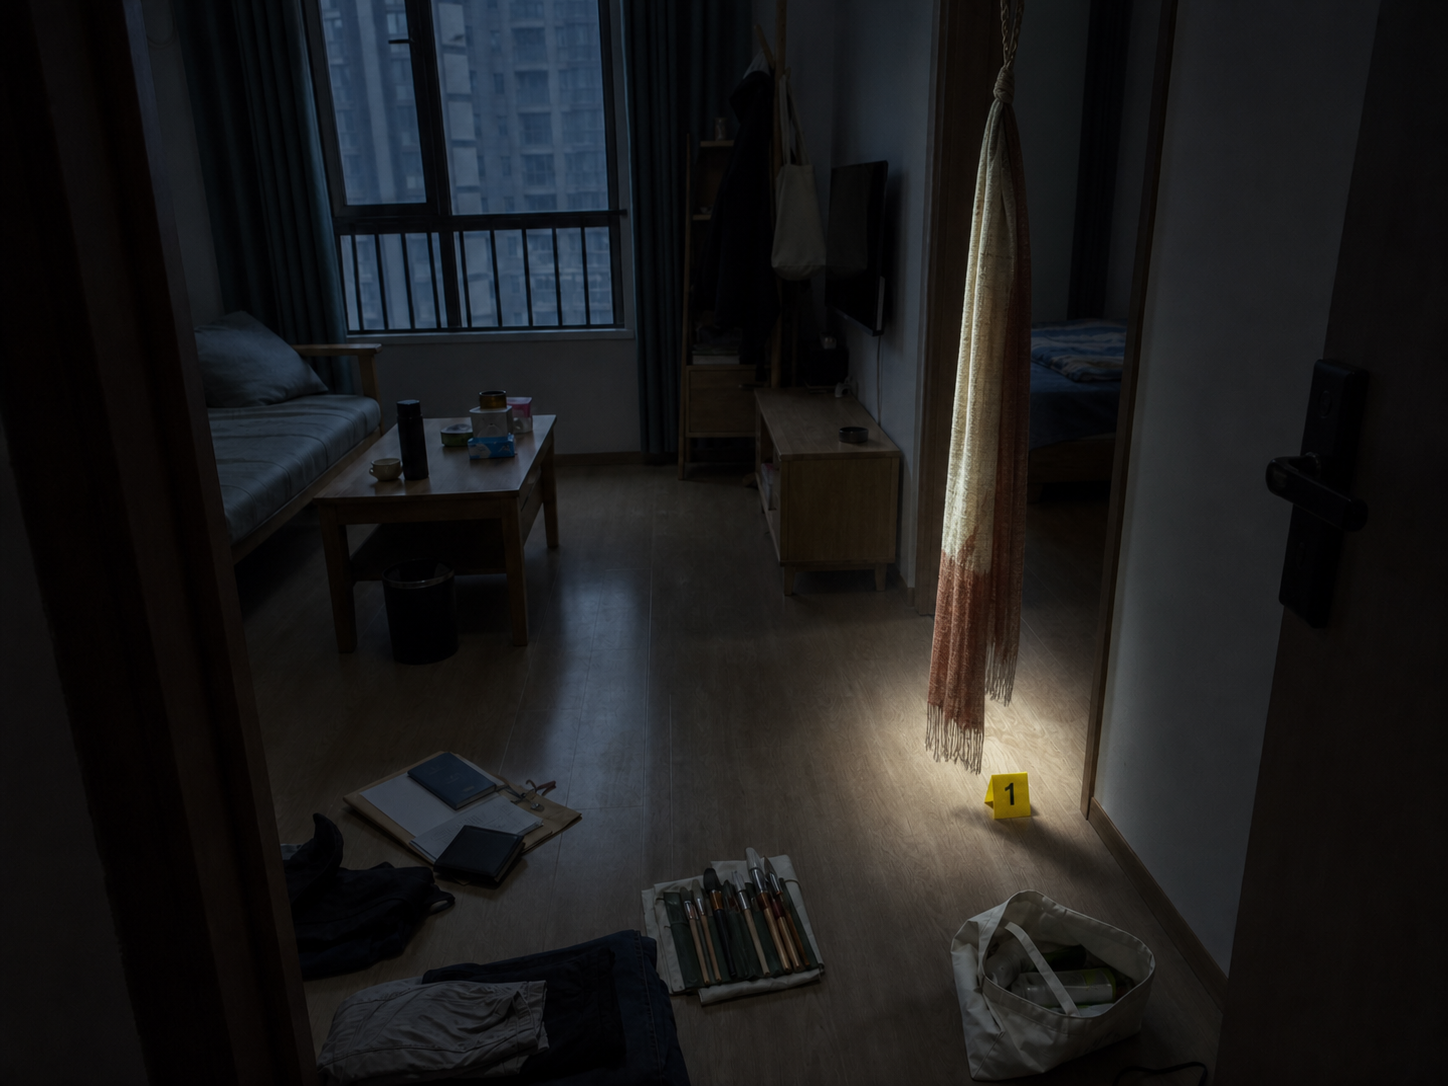
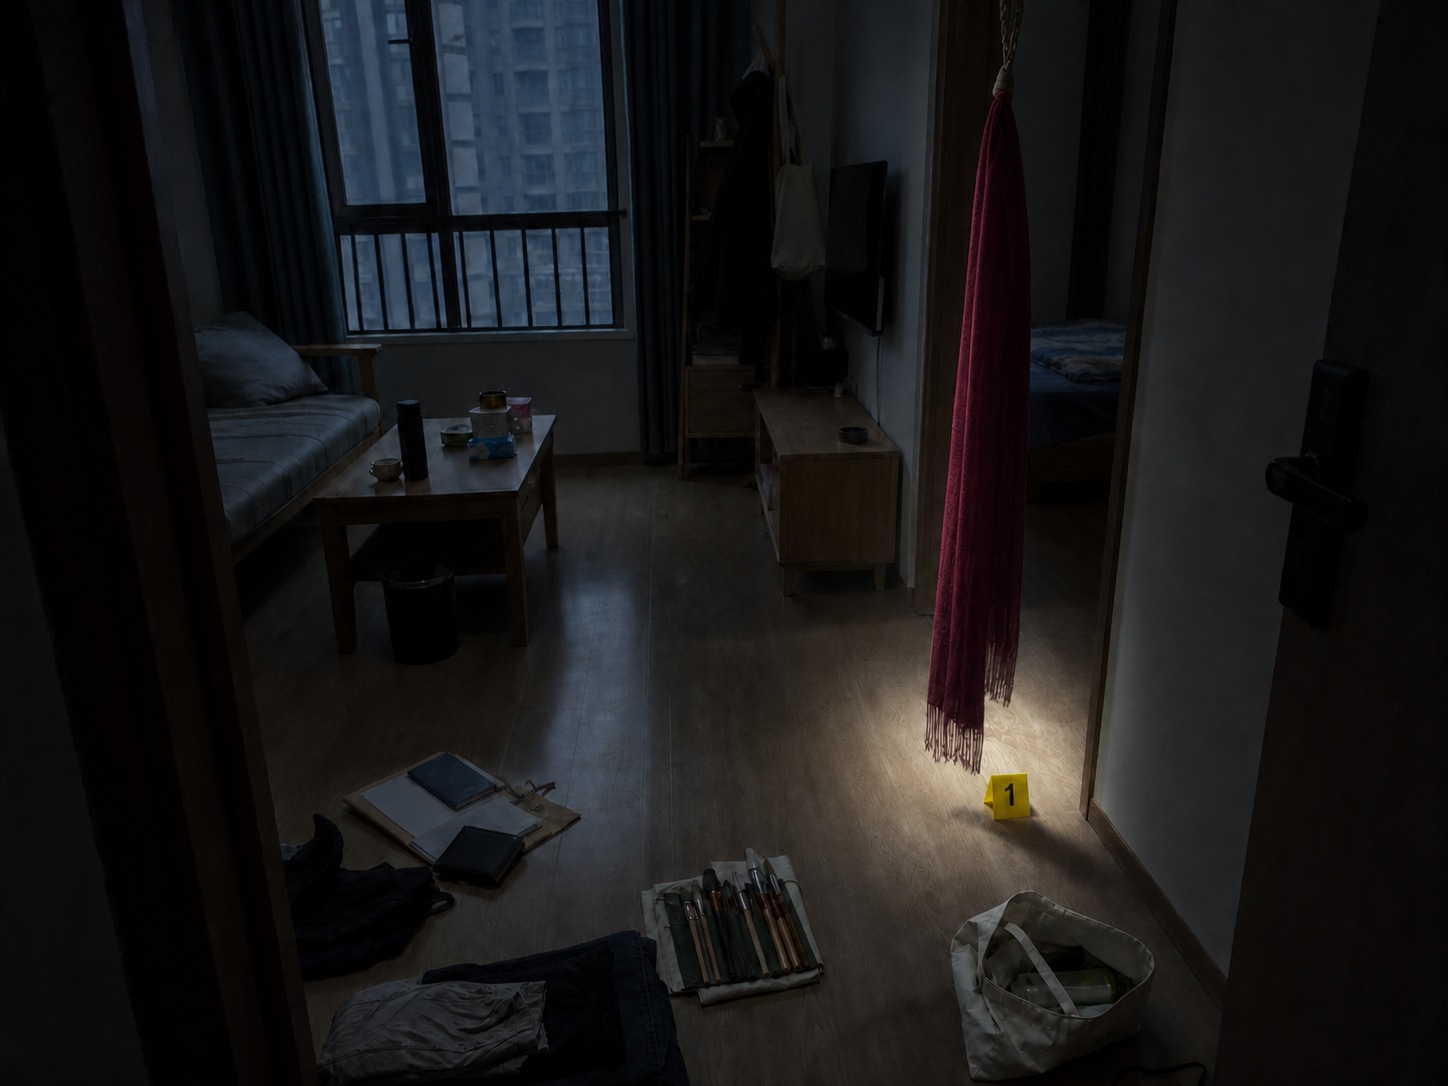
fix: align draft metadata and scarf evidence

Changed region(s): [[0.6215, 0.0912, 0.7148, 0.7293]]

diff --git a/app/globals.css b/app/globals.css
@@ -429,6 +429,7 @@ body:has(.opening-sequence) .global-translation-toggle { display:none; }
 .wx-driver-code{display:grid;grid-template-columns:1fr auto;align-items:center;gap:4px 15px;margin:18px 45px;padding:15px 18px;border:1px dashed #987d55;background:#292e30;color:#d7d0bd}.wx-driver-code small,.wx-driver-code span{font-size:8px}.wx-driver-code small{color:#aaa28d;letter-spacing:.12em}.wx-driver-code b{grid-row:1/3;grid-column:2;font:18px monospace;letter-spacing:.08em;color:#e6bd72}.wx-driver-code span{color:#858d8b}.aid-archive-search{display:flex;align-items:end;gap:14px;margin:15px 0 22px;padding:15px 18px;background:#e6eeec;border:1px solid #cbd8d5}.aid-archive-search label{flex:0 0 110px;padding-bottom:10px;color:#385f5a;font-size:9px;font-weight:bold}.aid-archive-search>div{flex:1;display:flex}.aid-archive-search input{flex:1;min-width:0;padding:10px 12px;border:1px solid #9db1ad;background:#fff}.aid-archive-search button{padding:0 22px;border:0;background:#1c6962;color:#fff}.aid-archive-search p{flex-basis:100%;margin:0;color:#9e3935;font-size:9px}.aid-archive-search.error{flex-wrap:wrap;border-color:#d5a29e;background:#fff0ee}.aid-sealed-evidence{padding-bottom:35px}.aid-sealed-evidence>header{padding:20px 23px;background:#262d30;color:#d9dddc;border-left:5px solid #a63e39}.aid-sealed-evidence>header span,.aid-sealed-evidence>header b,.aid-sealed-evidence>header small{display:block}.aid-sealed-evidence>header span{color:#d47d76;font:8px monospace;letter-spacing:.2em}.aid-sealed-evidence>header b{margin-top:7px;font-size:17px}.aid-sealed-evidence>header small{margin-top:5px;color:#9ca5a2;font-size:8px}.aid-evidence-summary{display:grid;grid-template-columns:repeat(4,1fr);gap:8px;margin:15px 0}.aid-evidence-summary span{padding:15px;background:#fff;border-top:3px solid #a74540;color:#697572;font-size:8px;box-shadow:0 3px 10px #1738320d}.aid-evidence-summary b{display:block;margin-bottom:5px;color:#8e3532;font-size:22px}.aid-sealed-evidence>article{margin:11px 0;background:#fff;border:1px solid #d4dcda;box-shadow:0 4px 13px #183c3510}.aid-sealed-evidence>article>header{display:flex;justify-content:space-between;padding:13px 17px;background:#edf2f0;border-bottom:1px solid #d8dfdd}.aid-sealed-evidence>article>header b{color:#263f3b}.aid-sealed-evidence>article>header em{color:#a13c37;font-size:8px;font-style:normal}.aid-sealed-evidence>article dl{display:grid;grid-template-columns:110px 1fr;margin:0}.aid-sealed-evidence>article dt,.aid-sealed-evidence>article dd{margin:0;padding:10px 13px;border-bottom:1px solid #e3e7e5;font-size:9px;line-height:1.7}.aid-sealed-evidence>article dt{background:#f5f7f6;color:#6d7e79}.aid-sealed-evidence>article dd{color:#465955}.aid-chain-conclusion{margin-top:18px;padding:18px 20px;border-left:5px solid #9e3834;background:#fff0ee;color:#703735}.aid-chain-conclusion b{font-size:15px}.aid-chain-conclusion p{margin-bottom:0;font-size:10px;line-height:1.9}@media(max-width:700px){.wx-driver-code{margin:15px}.aid-archive-search{align-items:stretch;flex-direction:column}.aid-archive-search label{flex-basis:auto}.aid-evidence-summary{grid-template-columns:1fr 1fr}.aid-sealed-evidence>article dl{grid-template-columns:1fr}}
 .old-phone-extract{width:310px;margin:18px auto 24px;border:9px solid #242b2c;border-radius:24px;background:#e8e8e2;box-shadow:0 14px 30px #14222935;overflow:hidden}.old-phone-extract>header{display:flex;justify-content:space-between;padding:8px 16px;background:#242b2c;color:#eef2ef;font-size:8px}.old-phone-extract>section{padding:0 14px 18px}.old-phone-app{margin:0 -14px 12px;padding:12px 15px;background:#f6f5ef;border-bottom:1px solid #d6d5ce;font-weight:bold}.old-phone-extract article{margin:10px 0;padding:12px!important;border:1px solid #d2d0c5;border-radius:8px;background:#fffef8;line-height:1.5!important}.old-phone-extract article small{color:#999184;font-size:7px}.old-phone-extract article h3{margin:3px 0 5px}.old-phone-extract article p{margin:0;color:#5d5a52;font-size:10px}.old-phone-extract article b{color:#222;font:12px monospace;user-select:text}
 .wb-feed>article.wb-draft-lock{cursor:default;border-left:3px solid #776b58;background:#f7f5ef}.wb-draft-lock form{display:grid;grid-template-columns:1fr auto;gap:8px;margin:15px 0;padding:14px;border:1px solid #d4cdbf;background:#eeebe3}.wb-draft-lock form label{color:#756e62;font-size:9px}.wb-draft-lock form input{display:block;width:100%;margin-top:6px;padding:9px;border:1px solid #bdb6a9;background:#fff}.wb-draft-lock form button{align-self:end;padding:10px 14px;border:0;background:#625b4f;color:#fff;font-size:9px}.wb-draft-lock form button:disabled{opacity:.35}.wb-draft-lock form small{grid-column:1/3;color:#a34a43;font-size:8px}.gp-wb-dark .wb-feed>article.wb-draft-lock{border-color:#756d5f;background:#2c2e2f}.gp-wb-dark .wb-draft-lock form{border-color:#4c4d49;background:#252728}.gp-wb-dark .wb-draft-lock form label{color:#a9a49a}.gp-wb-dark .wb-draft-lock form input{border-color:#555750;background:#1e2021;color:#d5d4d0}.gp-wb-dark .wb-draft-lock form button{background:#68645b;color:#eee}
+.wb-feed article footer.wb-draft-meta{justify-content:flex-start;gap:18px}
 .wb-profile>img{display:block;margin-left:auto;margin-right:auto}
 .gp-wx-key-missing{display:flex;align-items:center;gap:12px;margin-top:16px;padding:15px;border:1px solid #c9cfcc;background:#f1f3f2}.gp-wx-key-missing>i{width:38px;height:38px;display:grid;place-items:center;border-radius:50%;background:#d9dfdc;font-style:normal}.gp-wx-key-missing span{flex:1}.gp-wx-key-missing strong,.gp-wx-key-missing small{display:block}.gp-wx-key-missing strong{color:#4c5a54;font-size:10px}.gp-wx-key-missing small{margin-top:5px!important;color:#8a948f!important;font-size:8px!important;line-height:1.6}.wx-sensitive-note{margin-top:14px!important;color:#9d625d!important}
 .record-language{display:flex;align-items:center;justify-content:space-between;margin:-6px 0 18px;padding:9px 12px;border:1px solid #cbdadd;background:#f2f7f7;color:#61747b;font-size:9px}.record-language button{padding:7px 13px;border:1px solid #087d83;background:#fff;color:#08646b;font-size:10px;font-weight:bold}.record-language button:hover{background:#087d83;color:#fff}

diff --git a/app/weibo/GupanWeibo.tsx b/app/weibo/GupanWeibo.tsx
@@ -45,7 +45,7 @@ export default function GupanWeibo({embedded=false,viewer="沈望"}:{embedded?:b
     <nav className="wb-profile-nav"><button className="active">她的主页</button><button>她的相册</button><button>赞</button><span>关注 17　粉丝 3　微博 {posts.filter(p=>!p.private).length}</span></nav>
     <div className="wb-layout">
       <aside><section><h3>个人资料</h3><p>所在地：海外</p><p>教育信息：Northbridge University</p><p>简介：画画、植物、旅行</p></section><section><h3>微博归档</h3>{["全部","2022","2021"].map(x=><button key={x} className={year===x?"active":""} onClick={()=>setYear(x)}>{x}年</button>)}</section><section className="wb-clue"><h3>账号状态</h3><p>最后公开更新：2022-10-26</p><p>此后没有发布新微博</p>{privateOpen&&<p>已在本地时间线中显示未发送草稿</p>}</section></aside>
-      <section className="wb-feed"><div className="wb-filter"><b>她的微博</b><div style={{display:"flex",alignItems:"center",gap:"10px"}}><span>{visible.length} 条公开记录{privateOpen?` · ${posts.filter(p=>p.private).length} 条本地草稿`:""}</span><WeiboSortToggle order={sortOrder} onChange={setSortOrder}/></div></div>{visible.map(post=><article key={post.id} className={post.private?"private":""}><img src="/characters/gu-pan.png" alt="顾盼"/><div><header><b>向阳生长</b>{post.private&&<em>未发送草稿</em>}<small>{post.date}　来自 Android客户端　IP属地：{post.place}</small></header><p>{post.text}</p>{post.image&&<WeiboImage kind={post.image as "map"|"snow"} label={post.image==="map"?"一张画满线路的世界地图":"冬夜里的车站"}/>} {post.photo&&<WeiboImage kind="photo" src={post.photo.src} label={post.photo.caption}/>} {post.file&&<WeiboImage kind="lab" label={post.file}/>}<footer><span>☆ 收藏</span><span>↗ 转发 0</span><span>□ 评论 0</span><span>♡ 赞 {post.id%3}</span></footer></div></article>)}{showDraftLock&&<article className="wb-draft-lock"><img src="/characters/gu-pan.png" alt="顾盼"/><div><header><b>向阳生长</b><em>未发送草稿 · 已加密</em><small>2022-10-29 04:18　保存于 Android客户端</small></header><p>这里缓存着一组没有发送的草稿。</p><form onSubmit={event=>{event.preventDefault();unlockDrafts()}}><label>请输入密码（提示：爱情暗号）<input type="password" value={code} onChange={event=>setCode(event.target.value)} placeholder="请输入密码" autoComplete="off"/></label><button disabled={code.trim().toLowerCase()!==draftPassword}>显示这段时间的草稿</button>{code&&code.trim().toLowerCase()!==draftPassword&&<small className="wb-error">密码不正确</small>}</form><footer><span>本地缓存</span><span>不会发布这些内容</span><span>创建于 04:18</span></footer></div></article>}</section>
+      <section className="wb-feed"><div className="wb-filter"><b>她的微博</b><div style={{display:"flex",alignItems:"center",gap:"10px"}}><span>{visible.length} 条公开记录{privateOpen?` · ${posts.filter(p=>p.private).length} 条本地草稿`:""}</span><WeiboSortToggle order={sortOrder} onChange={setSortOrder}/></div></div>{visible.map(post=><article key={post.id} className={post.private?"private":""}><img src="/characters/gu-pan.png" alt="顾盼"/><div><header><b>向阳生长</b>{post.private&&<em>未发送草稿</em>}<small>{post.date}　来自 Android客户端　IP属地：{post.place}</small></header><p>{post.text}</p>{post.image&&<WeiboImage kind={post.image as "map"|"snow"} label={post.image==="map"?"一张画满线路的世界地图":"冬夜里的车站"}/>} {post.photo&&<WeiboImage kind="photo" src={post.photo.src} label={post.photo.caption}/>} {post.file&&<WeiboImage kind="lab" label={post.file}/>} {post.private?<footer className="wb-draft-meta"><span>本地缓存</span><span>未发布</span></footer>:<footer><span>☆ 收藏</span><span>↗ 转发 0</span><span>□ 评论 0</span><span>♡ 赞 {post.id%3}</span></footer>}</div></article>)}{showDraftLock&&<article className="wb-draft-lock"><img src="/characters/gu-pan.png" alt="顾盼"/><div><header><b>向阳生长</b><em>未发送草稿 · 已加密</em><small>2022-10-29 04:18　保存于 Android客户端</small></header><p>这里缓存着一组没有发送的草稿。</p><form onSubmit={event=>{event.preventDefault();unlockDrafts()}}><label>请输入密码（提示：爱情暗号）<input type="password" value={code} onChange={event=>setCode(event.target.value)} placeholder="请输入密码" autoComplete="off"/></label><button disabled={code.trim().toLowerCase()!==draftPassword}>显示这段时间的草稿</button>{code&&code.trim().toLowerCase()!==draftPassword&&<small className="wb-error">密码不正确</small>}</form><footer><span>本地缓存</span><span>不会发布这些内容</span><span>创建于 04:18</span></footer></div></article>}</section>
       <aside className="wb-right"><section className="wb-people-card"><h3>可能认识的人</h3><a className="wb-person-link" href="/weibo/zw" target="_blank" rel="noopener noreferrer"><img src="/characters/shen-wang.png" alt="沈望"/><span><b>向左望，向右看</b><small>共同关注 1 · 查看主页 →</small></span></a><a className="wb-person-link" href="/weibo/haoqian" target="_blank" rel="noopener noreferrer"><img src="/characters/hao-qian.png" alt="郝倩"/><span><b>H.Q.</b><small>海外校友 · 查看主页 →</small></span></a><CelebrityFollows compact/></section></aside>
     </div>
     <footer className="wb-footer">微博客服　意见反馈　开放平台　隐私保护　© 2009–2026</footer>

diff --git a/app/computer/DesktopRoute.tsx b/app/computer/DesktopRoute.tsx
@@ -1666,7 +1666,7 @@ function FilePreview({owner,file,close}:{owner:Owner;file:string;close:()=>void}
     "医院回执单.jpg":{tag:"扫描件",title:"North Harbor Medical Center",body:<><img className="pc-evidence-image document" src="/evidence/gupan-patient-portal-slip.png" alt="顾盼的医院患者编号与门户访问单"/><p>完整诊疗记录请前往医院门户查询</p></>},
     "账单.pdf":{tag:"付款订单 · 已结清",title:"Harborwell Recovery Center",body:<img className="pc-evidence-image document" src="/evidence/hao-qian-treatment-order.png" alt="Harborwell Recovery Center付款账单"/>},
     "HM-2217.pdf":{tag:"异常代号",title:"HM-2217",body:<><img className="pc-evidence-image document" src="/evidence/bank-draft-hm-2217.png" alt="附言为HM-2217的未兑付两万美元银行本票"/><p>两万美元支票，未兑现。</p></>},
-    "07_现场物品登记表.pdf":{tag:"临川公安 · 现场物品",title:"现场物品登记表",body:<><table className="scene-evidence-table"><thead><tr><th>编号</th><th>物品</th><th>发现位置</th><th>状态</th></tr></thead><tbody><tr><td>LC-402-04</td><td>碎屏旧手机</td><td>卧室窗边矮柜后侧</td><td>关机 · 无SIM卡</td></tr><tr><td>LC-402-05</td><td>婚礼请柬</td><td>书桌抽屉第二层</td><td>纸面完整 · 二维码可识别</td></tr><tr><td>LC-402-06</td><td>婚庆合同</td><td>碎纸篓夹层</td><td>纸张残损 · 封边校验清晰</td></tr><tr><td>LC-402-09</td><td>浅色长围巾</td><td>室内悬挂点下方</td><td>已单独封存</td></tr></tbody></table><p>登记表仅列出与本次线索核验直接相关的现场物品。原物继续由办案单位封存。</p><a className="scene-download" href="data:text/plain;charset=utf-8," download="LC-QH-1129-402.txt" onClick={()=>{localStorage.setItem("jia-police-investigation-id-downloaded","true");window.dispatchEvent(new Event("jia-progress"))}}>下载附件</a></>},
+    "07_现场物品登记表.pdf":{tag:"临川公安 · 现场物品",title:"现场物品登记表",body:<><table className="scene-evidence-table"><thead><tr><th>编号</th><th>物品</th><th>发现位置</th><th>状态</th></tr></thead><tbody><tr><td>LC-402-04</td><td>碎屏旧手机</td><td>卧室窗边矮柜后侧</td><td>关机 · 无SIM卡</td></tr><tr><td>LC-402-05</td><td>婚礼请柬</td><td>书桌抽屉第二层</td><td>纸面完整 · 二维码可识别</td></tr><tr><td>LC-402-06</td><td>婚庆合同</td><td>碎纸篓夹层</td><td>纸张残损 · 封边校验清晰</td></tr><tr><td>LC-402-09</td><td>酒红色长围巾</td><td>室内悬挂点下方</td><td>已单独封存</td></tr></tbody></table><p>登记表仅列出与本次线索核验直接相关的现场物品。原物继续由办案单位封存。</p><a className="scene-download" href="data:text/plain;charset=utf-8," download="LC-QH-1129-402.txt" onClick={()=>{localStorage.setItem("jia-police-investigation-id-downloaded","true");window.dispatchEvent(new Event("jia-progress"))}}>下载附件</a></>},
   };
   const item=content[file]||{tag:owner.toUpperCase(),title:file,body:<p>文件内容暂未恢复。</p>};
   return <div className="pc-file-preview"><header><span>{file}</span><button onClick={close}>×</button></header><article tabIndex={0} aria-label={`${file} 内容，可滚动查看`}><small>{item.tag}</small><h2>{item.title}</h2>{item.body}{item.link&&<a href={item.link[0]} target="_blank" rel="noopener noreferrer">{item.link[1]}</a>}</article></div>;

diff --git a/public/story-guide.html b/public/story-guide.html
@@ -484,7 +484,7 @@
             <h3>检查现场证据包</h3>
             <div class="route"><b>点击路径：</b>刘涵电脑 → 晴川公寓_现场证据</div>
             <p>现场证据仅有6项：<code>03_室内全景.jpg</code>、<code>04_碎屏旧手机.jpg</code>、<code>05_请柬.jpg</code>、<code>06_婚庆合同.jpg</code>、<code>07_现场物品登记表.pdf</code>、<code>旧手机备忘录.jpg</code>。</p>
-            <p>室内全景呈现经过整理的房间与悬挂点附近的浅色长围巾；旧手机备忘录以图片形式显示，图中提供顾盼旧电脑微信密码 <code>gp2022wxpass</code>，页面不附加解释文字。</p>
+            <p>室内全景呈现经过整理的房间与悬挂点附近的酒红色长围巾；旧手机备忘录以图片形式显示，图中提供顾盼旧电脑微信密码 <code>gp2022wxpass</code>，页面不附加解释文字。</p>
             <p>现场物品登记表提供“下载附件”按钮。下载得到的TXT内容为空，真正线索是文件名 <code>LC-QH-1129-402.txt</code>；去掉扩展名后得到档案编号 <code>LC-QH-1129-402</code>。</p>
           </article>
           <article class="step">
